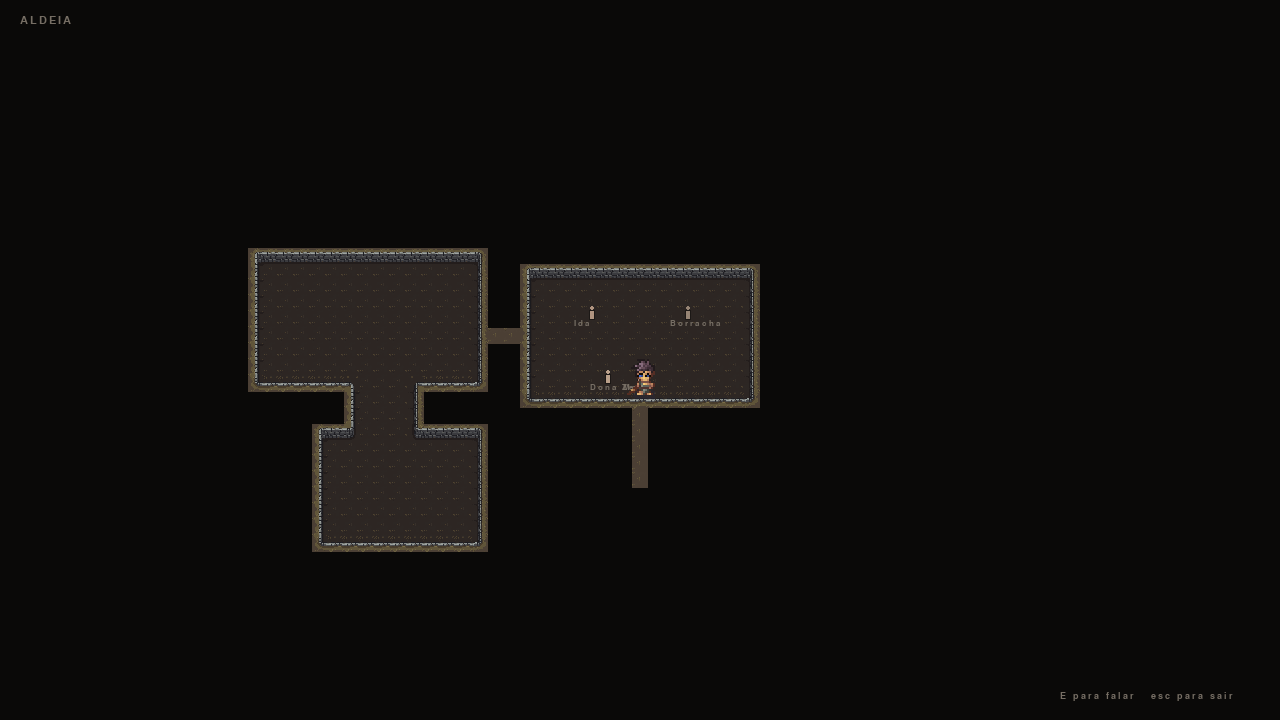
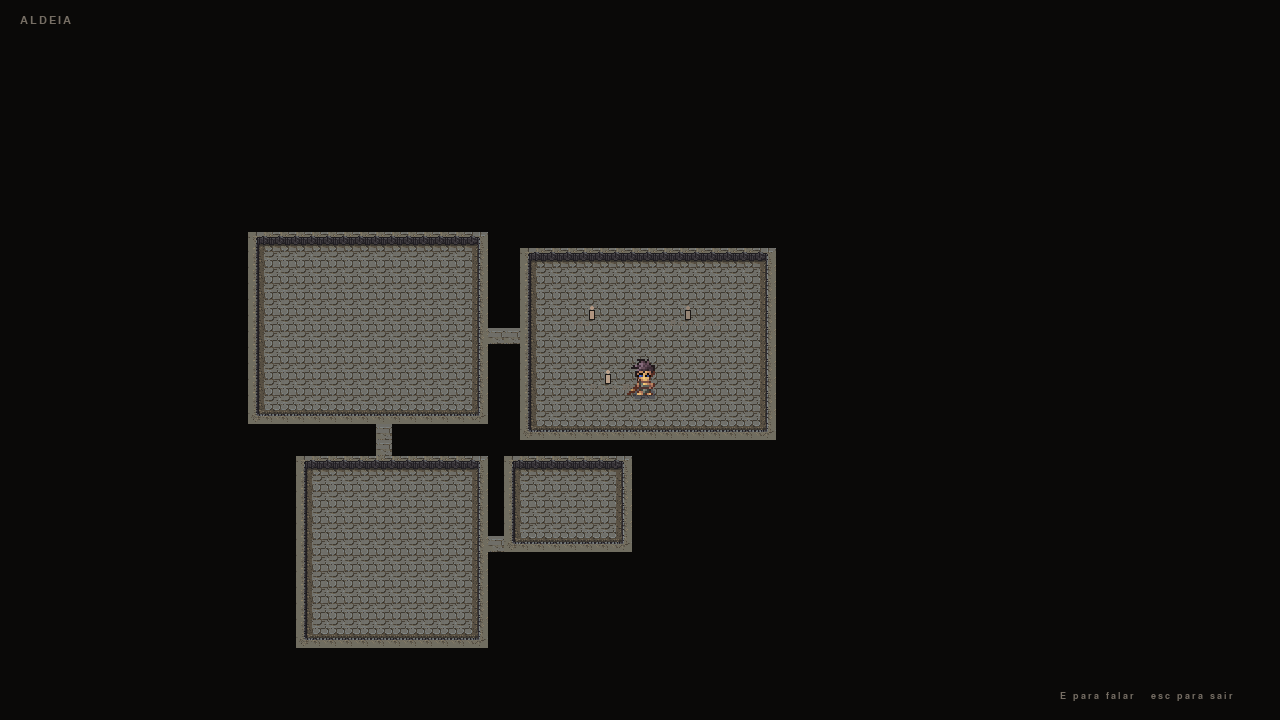
Inventario com Q fora de combate, pocao que volta, e a aldeia no PixelLab
A tecla Q abre o inventario andando pelo mapa, na masmorra, na estrada e
na aldeia. O desenho e a MESMA funcao que a luta usa: o jogador que
aprendeu a ler o inventario na luta reencontra a mesma coisa andando,
e duas telas parecidas para o mesmo objeto transformam a lista em
coisa a se decifrar de novo.

Fora da luta o Q e so o QUE: usar pociao com o jogo pausado nao tem
efeito em ninguem, e fingir que tem seria pior do que nao ter. A
conversao em vida de verdade acontece na luta.

A pocao volta ao chao da sala 4 quando o jogador nao tem nenhuma na
mao e ainda nao venceu a sala. E o caso de usar a pocao, perder a
luta e voltar: sem isso a sala da pocao virava um beco sem saida
depois do primeiro uso. A regra ficou em Progresso, e o teste percorre
o caminho inteiro: usou e perdeu, a pocao volta; usou e venceu, nao
volta.

A aldeia tem tileset proprio do PixelLab: pedra de calçamento com
terra entre as pedras, e cerca de madeira com muro de pedra. A cena
cresceu de 34x22 para 44x28, porque o tamanho anterior deixava a tela
com um mar de preto.

Um defeito achado no preview: as cenas da estrada e da aldeia pulavam
as celulas de enfeite (talha, entulho, laje) por testar '!= CHAO'.
Sao celulas andaveis que nao sao CHAO, e elas apareciam como quadrados
PRETOS no meio do chao. A masmorra testava '== PAREDE' e por isso nao
tinha o problema. As tres cenas agora usam o mesmo teste.

Changed region(s): [[0.1875, 0.3056, 0.625, 0.9167]]

diff --git a/src/dungeon_scene.py b/src/dungeon_scene.py
@@ -22,6 +22,7 @@ from . import (  # noqa: I001
     wang,
 )
 from . import progresso as progresso_mod
+from . import itens as itens_mod
 from .area_title import AreaTitle
 from .dungeon_map import (
     PAREDE,
@@ -257,6 +258,8 @@ _TABELA_ATUAL: dict[tuple, pygame.Surface] = {}
 
 class DungeonScene(Scene):
     """Um cenario de masmorra, com autotiling de Wang."""
+
+    inventario_aberto = False
 
     def __init__(self, manager, cenario=None) -> None:
         super().__init__(manager)
@@ -529,6 +532,10 @@ class DungeonScene(Scene):
 
         if self.fase != "livre":
             return
+        if self.key(event, "inventario"):
+            self.inventario_aberto = not self.inventario_aberto
+            return
+
         if self.key(event, "interagir"):
             self._pegar_item()
             return
@@ -651,17 +658,25 @@ class DungeonScene(Scene):
         return
 
     def _colocar_item(self) -> None:
-        """Larga a pocao no chao da sala 4, uma vez so.
+        """Larga a pocao no chao da sala 4, conforme o que o jogador tem.
 
-        A sala da pocao e a 4, e a pocao fica no chao dela. Se o
-        jogador ja pegou, nao volta: recarregar a cena (a cada entrada
-        na masmorra) recolocaria a pocao e o jogador poderia
-        acumular poções infinitas.
+        Tres casos, e o terceiro e o que o jogador pediu:
+
+        - a sala ja foi vencida: a pocao nao volta mais, a aula acabou;
+        - o jogador ainda tem pocao na mao: nao precisa de outra no
+          chao. Sem esta checagem ele pegava, usava na luta, fugia e
+          voltava para pegar de novo, juntando poções sem limite;
+        - o jogador NAO tem pocao e a sala ainda nao foi vencida: a
+          pocao volta. E o caso de usar a pocao, perder a luta e
+          voltar. Sem isso a sala da pocao viraria um beco sem saida
+          depois do primeiro uso.
         """
+        self.inventario_aberto = False
         sala_item = 4
-        if self.progresso.concluida(sala_item):
+        if not self.progresso.precisa_de_pocao_no_chao():
             self.ensinar_item = False
             return
+
         centro = self.mapa.centro_da_sala(sala_item)
         if centro is None:
             return
@@ -866,6 +881,7 @@ class DungeonScene(Scene):
             self._desenhar_caixao(surface, (cx, cy), escala)
 
         self._desenhar_hud(surface)
+        self._desenhar_inventario_mundo(surface)
         if self.esqueleto is not None:
             self._desenhar_esqueleto(surface)
         self.titulo.draw(surface)
@@ -1183,4 +1199,22 @@ class DungeonScene(Scene):
         theme.text_tracked_at(
             surface, f"{voltar} voltar    {salvar} salvar", 15,
             (28, h - 26), theme.HAIRLINE, tracking=1,
+        )
+
+    def _desenhar_inventario_mundo(self, surface: pygame.Surface) -> None:
+        """O inventario andando pelo mapa.
+
+        So desenha. Fora da luta nao da para usar nada: uma pocao
+        curada com o jogo pausado nao tem efeito em ninguem, e fingir
+        que tem seria pior do que nao ter. Aqui o Q e o QUE, o E e o
+        QUE, e a luta e onde a pociao vira vida de verdade.
+        """
+        if not self.inventario_aberto:
+            return
+        w, h = self.size
+        p = self.manager.ui_state.get("progresso")
+        inv = dict(p.itens) if p is not None else {}
+        itens_mod.desenhar_inventario(
+            surface, inv, (w // 2 - 165, h // 2 - 60),
+            rodape="q ou esc fecha",
         )

diff --git a/src/city_scene.py b/src/city_scene.py
@@ -13,10 +13,11 @@ from __future__ import annotations
 import pygame
 
 from . import assets, cenarios, settings, theme, wang
-from .dungeon_map import CHAO, Mapa, gerar_mapa
+from .dungeon_map import CHAO, PAREDE, Mapa, gerar_mapa
+from . import itens as itens_mod
 from .scene import Scene
 
-CENARIO_CIDADE = "cemiterio_wang"
+CENARIO_CIDADE = "aldeia_wang"
 
 TILE_BASE = 16
 MOVE_SPEED = 190.0
@@ -109,10 +110,12 @@ def _tile(chave: tuple, lado: int) -> pygame.Surface:
 class CityScene(Scene):
     """A cidadezinha, com os moradores locales."""
 
+    inventario_aberto = False
+
     def __init__(self, manager) -> None:
         super().__init__(manager)
         self.mapa: Mapa = gerar_mapa(
-            largura=34, altura=22, salas=3, semente=777
+            largura=44, altura=28, salas=4, semente=777
         )
         self._wang: wang.GradeWang | None = None
         self.progresso = manager.ui_state.get("progresso")
@@ -209,6 +212,10 @@ class CityScene(Scene):
             self.manager.switch("road")
             return
 
+        if self.key(event, "inventario"):
+            self.inventario_aberto = not self.inventario_aberto
+            return
+
         if "interagir" in acoes:
             if self.perto is not None:
                 self.perto.falando = 4.0
@@ -281,7 +288,11 @@ class CityScene(Scene):
 
         for y in range(y0, y1):
             for x in range(x0, x1):
-                if self.mapa.em(x, y) != CHAO:
+                # `== PAREDE`, e nao `!= CHAO`. As celulas de enfeite
+                # (talha, entulho, laje) sao andaveis mas nao sao
+                # CHAO: com o teste antigo elas nao eram desenhadas e
+                # apareciam como quadrados PRETOS no meio do chao.
+                if self.mapa.em(x, y) == PAREDE:
                     continue
                 chave, _img = self._wang.tile_e_chave(x, y)
                 surface.blit(
@@ -301,6 +312,7 @@ class CityScene(Scene):
 
         self._desenhar_fala(surface, w, h)
         theme.text_tracked_at(surface, "ALDEIA", 17, (20, 20), theme.TEXT_DIM)
+        self._desenhar_inventario_mundo(surface)
         theme.text_tracked_at(
             surface, "E para falar   esc para sair", 14,
             (w - 220, h - 24), theme.TEXT_DIM)
@@ -338,3 +350,21 @@ class CityScene(Scene):
         pygame.draw.rect(surface, theme.HAIRLINE, caixa.inflate(10, 10), 1)
         theme.text_tracked_at(
             surface, self.avisar, 16, (caixa.x + 8, caixa.y), theme.TEXT)
+
+    def _desenhar_inventario_mundo(self, surface: pygame.Surface) -> None:
+        """O inventario andando pelo mapa.
+
+        So desenha. Fora da luta nao da para usar nada: uma pocao
+        curada com o jogo pausado nao tem efeito em ninguem, e fingir
+        que tem seria pior do que nao ter. Aqui o Q e o QUE, o E e o
+        QUE, e a luta e onde a pociao vira vida de verdade.
+        """
+        if not self.inventario_aberto:
+            return
+        w, h = self.size
+        p = self.manager.ui_state.get("progresso")
+        inv = dict(p.itens) if p is not None else {}
+        itens_mod.desenhar_inventario(
+            surface, inv, (w // 2 - 165, h // 2 - 60),
+            rodape="q ou esc fecha",
+        )

diff --git a/src/road_scene.py b/src/road_scene.py
@@ -15,7 +15,8 @@ import random
 import pygame
 
 from . import assets, cenarios, settings, theme, wang
-from .dungeon_map import CHAO, Mapa, gerar_mapa
+from .dungeon_map import CHAO, PAREDE, Mapa, gerar_mapa
+from . import itens as itens_mod
 from .scene import Scene
 
 # o cenario que da o visual de fora. Reaproveita o tileset que ja
@@ -78,6 +79,8 @@ def _tile(chave: tuple, lado: int) -> pygame.Surface:
 class RoadScene(Scene):
     """O trecho de estrada entre a masmorra e a cidade."""
 
+    inventario_aberto = False
+
     def __init__(self, manager) -> None:
         super().__init__(manager)
         # um mapa aberto e largo: nao e uma masmorra, e um caminho
@@ -133,6 +136,10 @@ class RoadScene(Scene):
             self.manager.salvar_progresso()
             self.manager.switch("title")
             return
+        if self.key(event, "inventario"):
+            self.inventario_aberto = not self.inventario_aberto
+            return
+
         if "interagir" in acoes:
             # a estrada e o caminho para a aldeia. Sem isso a fuga da
             # masmorra levaria a um lugar sem saida, e a aldeia ficaria
@@ -195,7 +202,11 @@ class RoadScene(Scene):
 
         for y in range(y0, y1):
             for x in range(x0, x1):
-                if self.mapa.em(x, y) != CHAO:
+                # `== PAREDE`, e nao `!= CHAO`. As celulas de enfeite
+                # (talha, entulho, laje) sao andaveis mas nao sao
+                # CHAO: com o teste antigo elas nao eram desenhadas e
+                # apareciam como quadrados PRETOS no meio do chao.
+                if self.mapa.em(x, y) == PAREDE:
                     continue
                 chave, _img = self._wang.tile_e_chave(x, y)
                 surface.blit(
@@ -219,9 +230,28 @@ class RoadScene(Scene):
 
         theme.text_tracked_at(
             surface, "ESTRADA", 17, (20, 20), theme.TEXT_DIM)
+        self._desenhar_inventario_mundo(surface)
         theme.text_tracked_at(
             surface, "E segue para a aldeia", 15,
             (w // 2 - 90, h - 44), theme.GOLD)
         theme.text_tracked_at(
             surface, "voltar para o menu", 14,
             (w - 190, h - 24), theme.TEXT_DIM)
+
+    def _desenhar_inventario_mundo(self, surface: pygame.Surface) -> None:
+        """O inventario andando pelo mapa.
+
+        So desenha. Fora da luta nao da para usar nada: uma pocao
+        curada com o jogo pausado nao tem efeito em ninguem, e fingir
+        que tem seria pior do que nao ter. Aqui o Q e o QUE, o E e o
+        QUE, e a luta e onde a pociao vira vida de verdade.
+        """
+        if not self.inventario_aberto:
+            return
+        w, h = self.size
+        p = self.manager.ui_state.get("progresso")
+        inv = dict(p.itens) if p is not None else {}
+        itens_mod.desenhar_inventario(
+            surface, inv, (w // 2 - 165, h // 2 - 60),
+            rodape="q ou esc fecha",
+        )

diff --git a/tools/test_itens.py b/tools/test_itens.py
@@ -125,6 +125,44 @@ checa("interagir" in input_map.ACTION_LABELS
 sem_tecla = [a for a, _l, _g, teclas in input_map.ACTION_LIST if not teclas]
 checa(not sem_tecla, f"toda acao tem pelo menos uma tecla; sem: {sem_tecla}")
 
+# --- a tecla do inventario fora de combate -------------------------
+checa("inventario" in input_map.ACTION_LABELS,
+      f"existe a acao de inventario: {input_map.ACTION_LABELS.get('inventario')}")
+checa("q" in input_map.DEFAULT_BINDINGS.get("inventario", ()),
+      f"a tecla do inventario e Q: {input_map.DEFAULT_BINDINGS.get('inventario')}")
+checa("interagir" in input_map.ACTION_LABELS
+      and input_map.ACTION_GROUPS["interagir"] == input_map.GROUP_TECLAS,
+      "interagir aparece na aba de teclas das opcoes")
+checa("q" in input_map.PRETTY, f"Q tem nome agradavel: {input_map.PRETTY.get('q')}")
+
+# --- a pocao volta ao chao quando precisa --------------------------
+# Este e o caso que o jogador pediu: usar a pocao, perder a luta e
+# voltar tem de trazer a pocao de novo, senao a sala vira beco sem
+# saida depois do primeiro uso.
+nova = Progresso()
+checa(nova.precisa_de_pocao_no_chao(),
+      "sem pocao e sem vencer a sala 4: a pocao esta no chao")
+nova.itens["pocao"] = 1
+checa(not nova.precisa_de_pocao_no_chao(),
+      "com pocao na mao: nao precisa de outra no chao")
+nova.itens.pop("pocao")
+nova.vencer(4)
+checa(not nova.precisa_de_pocao_no_chao(),
+      "sala 4 ja vencida: a pocao nao volta mais")
+
+# o caminho real: usou, perdeu a luta, voltou
+caminho = Progresso()
+caminho.itens["pocao"] = 1
+caminho.usar_pocao()          # usou na luta
+checa(not caminho.tem_pocao(), "usou a pocao: nao tem mais nenhuma")
+checa(caminho.precisa_de_pocao_no_chao(),
+      "usou e perdeu: a pocao volta ao chao da sala")
+caminho.itens["pocao"] = 1
+caminho.vencer(4)
+caminho.usar_pocao()
+checa(not caminho.precisa_de_pocao_no_chao(),
+      "usou e VENCEU a sala: a pocao nao volta")
+
 if FALHOU:
     print(f"\n{FALHOU} verificacao(oes) falharam")
     sys.exit(1)

diff --git a/src/itens.py b/src/itens.py
@@ -66,3 +66,49 @@ def rotulos(inventario: dict[str, int]) -> list[tuple[str, Item, int]]:
 
 def tem_usaveis(inventario: dict[str, int]) -> bool:
     return any(item.e_cura for _id, item, _qtd in rotulos(inventario))
+
+
+def desenhar_inventario(
+    surface,
+    inventario: dict[str, int],
+    posicao: tuple[int, int],
+    titulo: str = "ITENS",
+    rodape: str = "q ou esc fecha",
+) -> pygame.Rect:
+    """Desenha o inventario. Usado na luta e no mundo.
+
+    A funcao e a mesma nos dois lugares de proposito: o jogador que
+    aprendeu a ler o inventario na luta reencontra exatamente a mesma
+    coisa andando pelo mapa. Duas telas parecidas para o mesmo objeto
+    transforma a lista em coisa a se decifrar de novo.
+    """
+    from . import theme
+
+    linhas = rotulos(inventario)
+    largura = 330
+    altura = 66 + 30 * max(1, len(linhas))
+    caixa = pygame.Rect(0, 0, largura, altura)
+    caixa.topleft = posicao
+
+    pygame.draw.rect(surface, theme.BACKGROUND, caixa.inflate(12, 12))
+    pygame.draw.rect(surface, theme.HAIRLINE, caixa.inflate(12, 12), 1)
+    theme.text_tracked_at(surface, titulo, 17, (caixa.x, caixa.y - 26), theme.GOLD)
+
+    if not linhas:
+        theme.text_tracked_at(
+            surface, "Voce nao carrega nada", 16, (caixa.x, caixa.y), theme.TEXT_DIM)
+    else:
+        for i, (item_id, item, qtd) in enumerate(linhas):
+            y = caixa.y + i * 30
+            pygame.draw.rect(
+                surface, theme.BACKGROUND_SOFT,
+                pygame.Rect(caixa.x - 4, y - 4, caixa.width + 8, 28))
+            theme.text_tracked_at(
+                surface, f"{item.nome} x{qtd}", 16, (caixa.x + 4, y), theme.TEXT)
+            theme.text_tracked_at(
+                surface, item.descricao, 12,
+                (caixa.x + 4, y + 16), theme.TEXT_DIM)
+
+    theme.text_tracked_at(
+        surface, rodape, 13, (caixa.x, caixa.bottom + 10), theme.TEXT_DIM)
+    return caixa

diff --git a/src/input_map.py b/src/input_map.py
@@ -28,6 +28,7 @@ ACTION_LIST: Tuple[Tuple[str, str, str, Tuple[str, ...]], ...] = (
     ("girar_direita", "Girar heroi (dir)", GROUP_TECLAS, ("d",)),
     ("confirmar", "Confirmar", GROUP_TECLAS, ("return", "space")),
     ("interagir", "Interagir / pegar", GROUP_TECLAS, ("e",)),
+    ("inventario", "Abrir inventario", GROUP_TECLAS, ("q",)),
     ("voltar", "Voltar / sair", GROUP_TECLAS, ("escape",)),
     ("restaurar", "Restaurar padroes", GROUP_TECLAS, ("r",)),
     ("salvar", "Salvar jogo", GROUP_TECLAS, ("f5",)),
@@ -48,6 +49,7 @@ PRETTY: Dict[str, str] = {
     "return": "enter",
     "space": "espaco",
     "e": "E",
+    "q": "Q",
     "escape": "esc",
     "shift": "shift",
     "ctrl": "ctrl",

diff --git a/src/progresso.py b/src/progresso.py
@@ -150,6 +150,16 @@ class Progresso:
     def tem_pocao(self) -> bool:
         return self.itens.get("pocao", 0) > 0
 
+    def precisa_de_pocao_no_chao(self) -> bool:
+        """A poção tem de voltar ao chão da sala?
+
+        True quando o jogador nao tem pocao na mao E ainda nao
+        venceu a sala dela. E o caso de ter usado a pocao, perdido a
+        luta e voltado: sem esta regra, a sala da pocao virava um beco
+        sem saida depois do primeiro uso.
+        """
+        return not self.tem_pocao() and not self.concluida(4)
+
     def usar_pocao(self) -> bool:
         if not self.tem_pocao():
             return False

diff --git a/src/cenarios.py b/src/cenarios.py
@@ -49,6 +49,13 @@ CENARIOS: tuple[Cenario, ...] = (
         tem_caixao=False,
         semente=23,
     ),
+    Cenario(
+        "Aldeia",
+        "os moradores locais",
+        "aldeia_wang",
+        tem_caixao=False,
+        semente=31,
+    ),
 )
 
 POR_NOME = {c.nome.lower(): c for c in CENARIOS}
